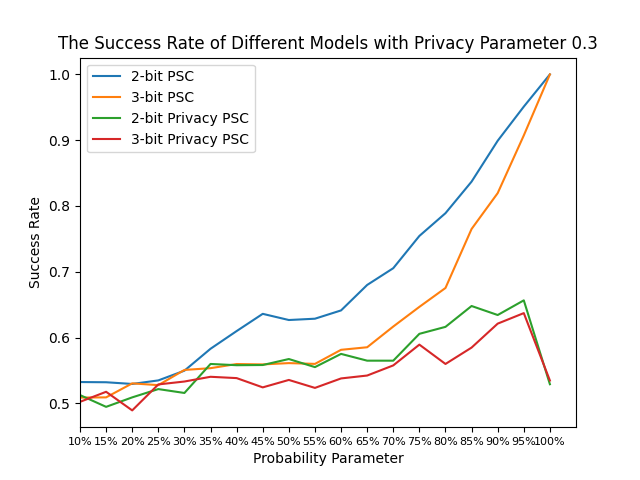
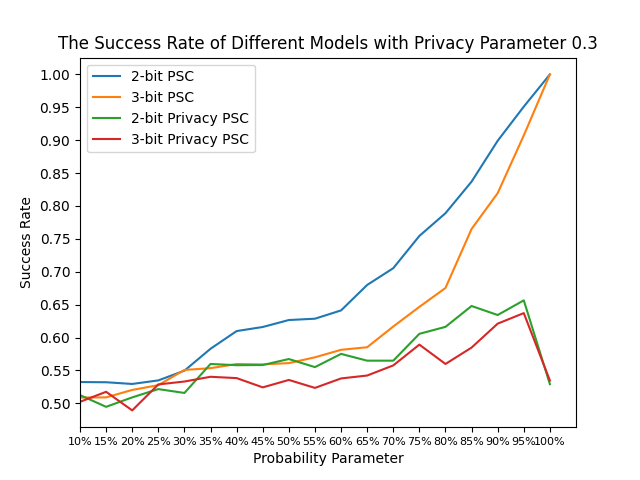
20250120

diff --git a/experiment.py b/experiment.py
@@ -6,6 +6,7 @@ import json
 import os
 from multiprocessing import Pool
 import re
+import numpy as np
 def calculate_sn_nt_sn(m, p):
     return 1 - m + m * (1 - p)
 
@@ -486,6 +487,12 @@ def plot_experiment12(privacy_parameter, full = False):
         # set the x axis from 10%,15% ... to 100%, small size of the font
         plt.xticks(range(len(psc2bit_list)), [f'{i*5}%' for i in range(2, 21)], fontsize=8)
         plt.xlim(0, 19)
+        # y axis 0.05 length
+        start, end = plt.gca().get_ylim()
+        # start 省略到一位小数
+        start = round(start, 1)
+        ticks = np.arange(start, 1 + 0.05, 0.05)
+        plt.yticks(ticks)
         plt.xlabel('Probability Parameter')
         plt.ylabel('Success Rate')
         plt.title(f'The Success Rate of Different Models with Privacy Parameter {privacy_parameter}')
@@ -590,6 +597,8 @@ def plot_experiment3(probablity_parameter,
     plt.plot([prsc3bit_sum_dict[key]['success_rate'] for key in sorted(prsc3bit_sum_dict.keys())], label='3-bit Privacy PSC')
     # set the x axis from keys of the dict
     plt.xticks(range(len(prsc3bit_sum_dict.keys())), [int(key) for key in sorted(prsc3bit_sum_dict.keys())])
+
+         
     plt.legend()
     plt.xlabel('Probe Number')
     plt.ylabel('Success Rate')
@@ -605,8 +614,9 @@ def plot_experiment3(probablity_parameter,
 if __name__ == "__main__":
     # expriment1_full(victim_thread_number=128)
     # expriment2_full(victim_thread_number=10000)
-    # for i in [0.1, 0.2, 0.3, 0.4, 0.5, 0.6,0.7, 0.8, 0.9]:
+    for i in [0.1, 0.2, 0.3, 0.4, 0.5, 0.6,0.7, 0.8, 0.9]:
+        plot_experiment12(i, full=False)
     #     if i == 0.9:
     #         print('Now we plot the full line')
     #     plot_experiment12(i, full=True)
-    plot_experiment3(probablity_parameter=0.8, privacy_parameter=0.1)
+    # plot_experiment3(probablity_parameter=0.8, privacy_parameter=0.1)
